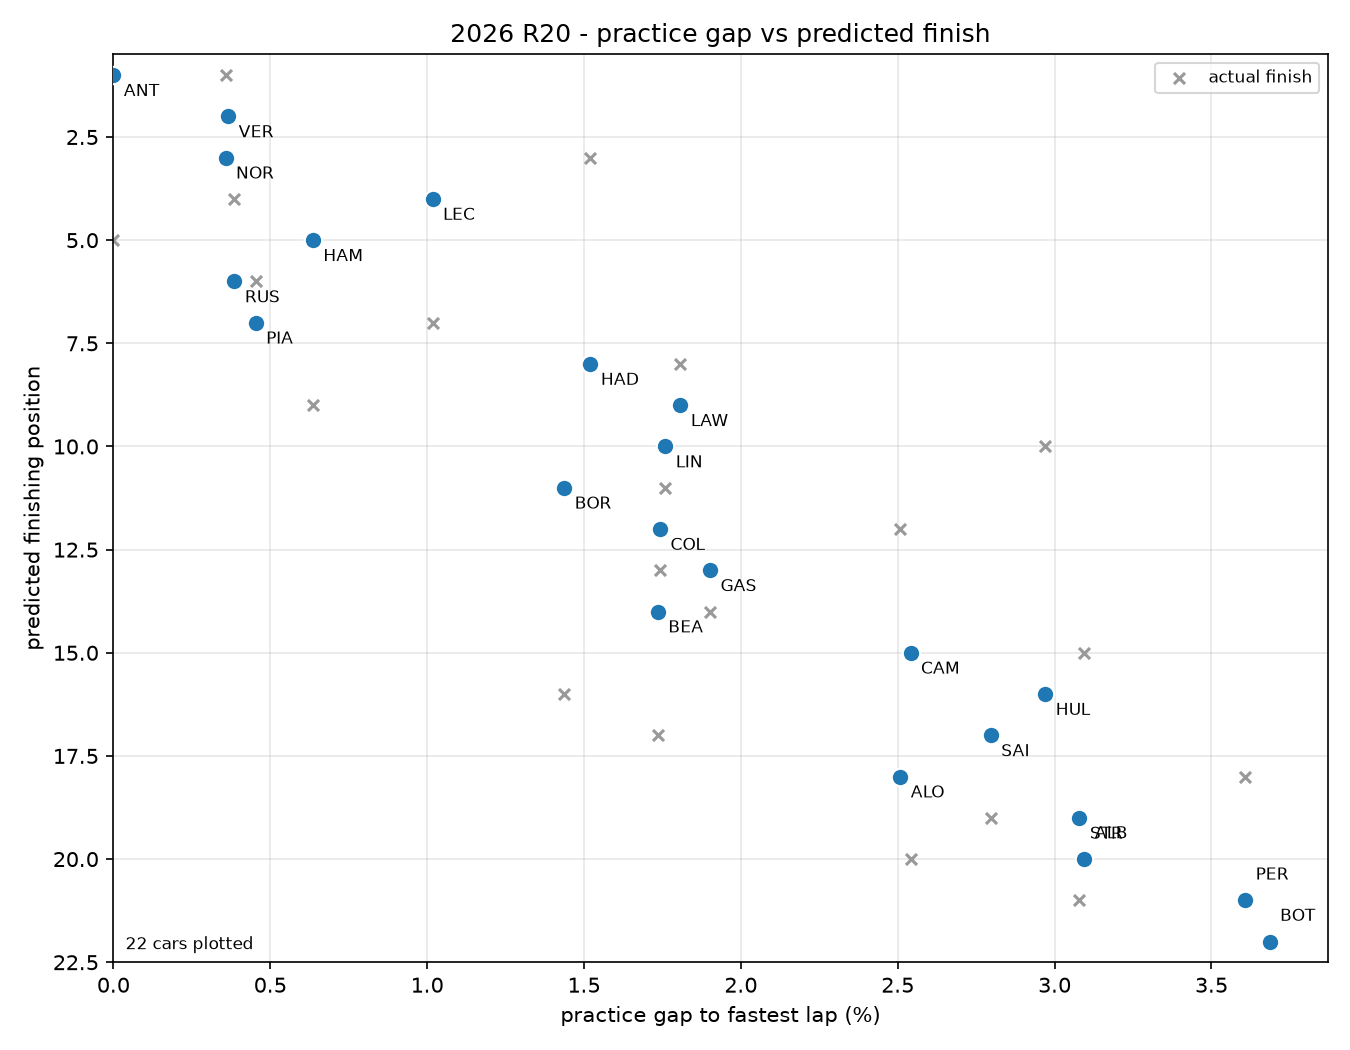
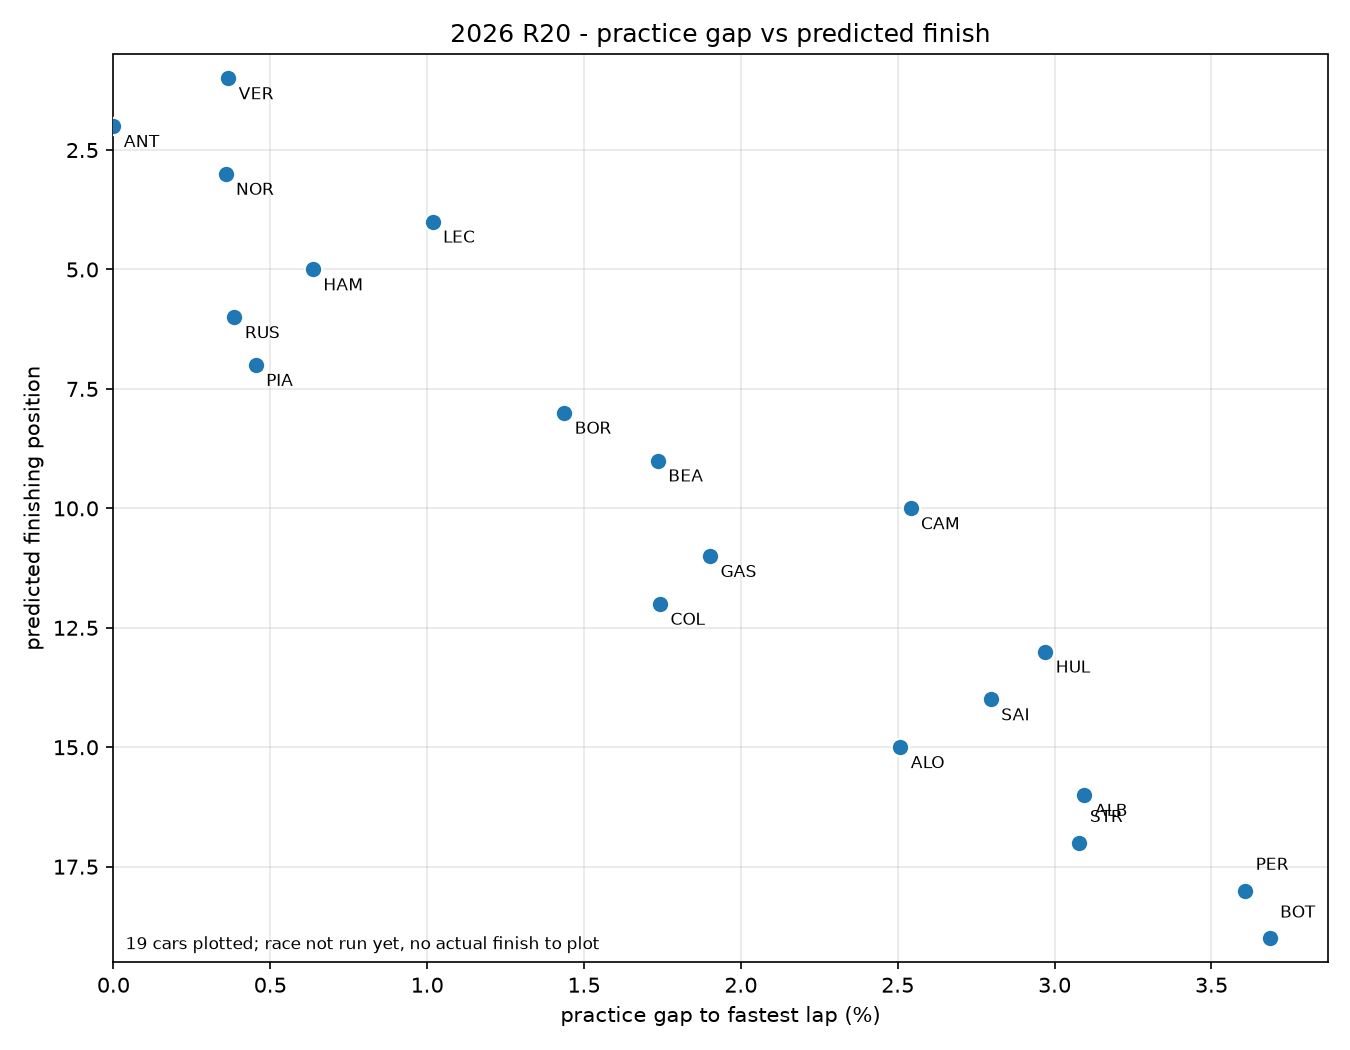
Fix 2026 driver lineups: Fix Haas (remove OCO, HIR), Red Bull/Racing Bulls lineups, team name standardization
- Haas: Remove OCO, HIR; keep BEA, CAM
- Red Bull: VER, LAW (Lawson promoted)
- Racing Bulls: TSU, HAD (Hadjar rookie, Tsunoda stays)
- Team name standardization: Alpine F1 Team->Alpine, Audi->Sauber, RB F1 Team->Racing Bulls, Red Bull Racing->Red Bull, Cadillac F1 Team->Cadillac, Alpine F1 Team->Alpine
- Removed incorrect drivers: OCO, HIR from Haas; HAD from Red Bull; LAW, LIN from Racing Bulls
- Added HAD to Racing Bulls for 2026 rounds 12-14

diff --git a/scripts/add_had_to_racing_bulls.py b/scripts/add_had_to_racing_bulls.py
@@ -1,0 +1,134 @@
+import sys
+sys.path.insert(0, r'C:\Users\outbnx_\Documents\F1 PROJECTS')
+import sqlite3
+
+con = sqlite3.connect(r'C:\Users\outbnx_\Documents\F1 PROJECTS\f1.db')
+con.row_factory = sqlite3.Row
+
+print("=== ADDING HAD TO RACING BULLS 2026 ===")
+
+# Check current Racing Bulls drivers in 2026
+for table in ['results', 'qualifying', 'practice', 'sprint', 'sprint_qualifying']:
+    drivers = con.execute("""
+        SELECT DISTINCT driver FROM """ + table + """ 
+        WHERE year=2026 AND team='Racing Bulls'
+    """).fetchall()
+    print(f'{table}: {[d["driver"] for d in drivers]}')
+
+# Get HAD's driver_number
+had_num_row = con.execute("""
+    SELECT driver_number FROM driver_numbers 
+    WHERE year=2026 AND driver='HAD'
+    LIMIT 1
+""").fetchone()
+had_num = had_num_row['driver_number'] if had_num_row else 11
+print(f"\nHAD driver_number: {had_num}")
+
+# Check what rounds TSU exists in for each table
+for table in ['results', 'qualifying', 'practice', 'sprint', 'sprint_qualifying']:
+    ts_rounds = con.execute("""
+        SELECT DISTINCT round FROM """ + table + """ 
+        WHERE year=2026 AND team='Racing Bulls' AND driver='TSU'
+        ORDER BY round
+    """).fetchall()
+    if ts_rounds:
+        print(f'{table}: TSU in rounds {[r["round"] for r in ts_rounds]}')
+
+# Table schemas for inserts
+table_cols = {
+    'results': ['year', 'round', 'event', 'driver', 'team', 'grid', 'finish'],
+    'qualifying': ['year', 'round', 'driver', 'driver_number', 'team', 'q_position', 'q_position_official', 'q1_s', 'q2_s', 'q3_s', 'best_q_s', 'gap_to_pole_pct', 'has_qualifying_time'],
+    'practice': ['year', 'round', 'driver', 'driver_number', 'team', 'n_sessions', 'best_practice_s', 'practice_rank', 'laps_completed', 'pit_out_laps', 'gap_to_best_pct', 'has_practice_lap'],
+    'sprint': ['year', 'round', 'driver', 'driver_number', 'team', 'sprint_position', 'sprint_status', 'sprint_grid', 'sprint_points', 'has_sprint_result'],
+    'sprint_qualifying': ['year', 'round', 'driver', 'driver_number', 'team', 'best_sq_s', 'sq_rank', 'laps', 'gap_to_best_pct', 'has_sq_lap'],
+}
+
+# For each table, add HAD for rounds where TSU exists
+for table in ['results', 'qualifying', 'practice', 'sprint', 'sprint_qualifying']:
+    ts_rounds = con.execute("""
+        SELECT DISTINCT round FROM """ + table + """ 
+        WHERE year=2026 AND team='Racing Bulls' AND driver='TSU'
+        ORDER BY round
+    """).fetchall()
+    
+    if not ts_rounds:
+        continue
+        
+    print(f'\n{table}: TSU in rounds {[r["round"] for r in ts_rounds]}')
+    
+    # Get TSU's data for first round as template
+    first_round = ts_rounds[0]['round']
+    ts_data = con.execute("""
+        SELECT * FROM """ + table + """ 
+        WHERE year=2026 AND team='Racing Bulls' AND driver='TSU' AND round=?
+    """, (first_round,)).fetchone()
+    
+    if not ts_data:
+        print(f'  No TSU data found for {table} round {first_round}')
+        continue
+    
+    # For each round where TSU exists, add HAD if not present
+    for r in ts_rounds:
+        round_num = r['round']
+        
+        # Check if HAD already exists for this round
+        existing = con.execute("""
+            SELECT 1 FROM """ + table + """ 
+            WHERE year=2026 AND team='Racing Bulls' AND driver='HAD' AND round=?
+        """, (round_num,)).fetchone()
+        
+        if existing:
+            print(f'  HAD already exists in {table} round {round_num}')
+            continue
+        
+        # Get TSU's data for this specific round
+        ts_round_data = con.execute("""
+            SELECT * FROM """ + table + """ 
+            WHERE year=2026 AND team='Racing Bulls' AND driver='TSU' AND round=?
+        """, (round_num,)).fetchone()
+        
+        if not ts_round_data:
+            print(f'  No TSU data for {table} round {round_num}')
+            continue
+        
+        # Build HAD insert values based on TSU's data
+        cols = table_cols[table]
+        vals = []
+        for col in cols:
+            if col == 'driver':
+                vals.append('HAD')
+            elif col == 'driver_number':
+                vals.append(had_num)
+            elif col == 'team':
+                vals.append('Racing Bulls')
+            elif col == 'year':
+                vals.append(2026)
+            elif col == 'round':
+                vals.append(round_num)
+            else:
+                # Copy from TSU's data
+                vals.append(ts_round_data[col])
+        
+        placeholders = ','.join(['?'] * len(cols))
+        insert_sql = 'INSERT OR REPLACE INTO ' + table + ' (' + ','.join(cols) + ') VALUES (' + placeholders + ')'
+        
+        try:
+            con.execute(insert_sql, vals)
+            print(f'  Added HAD to {table} round {round_num}')
+        except Exception as e:
+            print(f'  ERROR adding HAD to {table} round {round_num}: {e}')
+
+con.commit()
+
+# Verify
+print("\n=== VERIFICATION ===")
+for table in ['results', 'qualifying', 'practice']:
+    drivers = con.execute("""
+        SELECT DISTINCT driver FROM """ + table + """ 
+        WHERE year=2026 AND team='Racing Bulls'
+        ORDER BY driver
+    """).fetchall()
+    print(f'{table}: {[d["driver"] for d in drivers]}')
+
+con.close()
+import datetime

diff --git a/scripts/fix_2026_data.py b/scripts/fix_2026_data.py
@@ -1,0 +1,112 @@
+import sys
+sys.path.insert(0, r'C:\Users\outbnx_\Documents\F1 PROJECTS')
+import sqlite3
+import datetime
+import shutil
+
+con = sqlite3.connect(r'C:\Users\outbnx_\Documents\F1 PROJECTS\f1.db')
+con.row_factory = sqlite3.Row
+
+print("=== BACKING UP DATABASE ===")
+backup_name = 'f1_backup_before_2026_fix_' + datetime.datetime.now().strftime("%Y%m%d_%H%M%S") + '.db'
+shutil.copy2(r'C:\Users\outbnx_\Documents\F1 PROJECTS\f1.db', 
+             r'C:\Users\outbnx_\Documents\F1 PROJECTS\\' + backup_name)
+print('Backup created: ' + backup_name)
+
+print("\n=== FIXING 2026 DATA ===")
+
+# ============================================================
+# 1. FIX TEAM ALIASES - Use clean_team_name to standardize
+# ============================================================
+from f1pred.clean import clean_team_name
+
+# Only tables that have BOTH 'team' and 'year' columns
+tables_with_team_and_year = ['results', 'qualifying', 'practice', 'sprint', 'sprint_qualifying', 'forecasts']
+
+print("\n=== Raw team names in 2026 ===")
+for table in tables_with_team_and_year:
+    rows = con.execute("SELECT DISTINCT team FROM " + table + " WHERE year=2026").fetchall()
+    for row in rows:
+        raw = row['team']
+        clean = clean_team_name(raw)
+        if raw != clean:
+            print('  ' + table + ': "' + raw + '" -> "' + clean + '"')
+
+# Apply team name standardization
+for table in tables_with_team_and_year:
+    rows = con.execute("SELECT DISTINCT team FROM " + table + " WHERE year=2026").fetchall()
+    for row in rows:
+        raw = row['team']
+        clean = clean_team_name(raw)
+        if raw != clean:
+            con.execute("UPDATE " + table + " SET team=? WHERE year=2026 AND team=?", (clean, raw))
+            print('  Fixed ' + table + ': "' + raw + '" -> "' + clean + '"')
+
+con.commit()
+
+# ============================================================
+# 2. FIX HAAS - Remove OCO and HIR, keep only BEA and CAM
+# ============================================================
+print("\n=== FIXING HAAS ===")
+haas_drivers_to_remove = ['OCO', 'HIR']
+# Tables that have 'team' column
+tables_with_team = ['results', 'qualifying', 'practice', 'sprint', 'sprint_qualifying']
+for driver in haas_drivers_to_remove:
+    for table in tables_with_team:
+        result = con.execute("DELETE FROM " + table + " WHERE year=2026 AND team='Haas' AND driver=?", (driver,))
+        if result.rowcount > 0:
+            print('  Deleted ' + driver + ' from ' + table + ' (' + str(result.rowcount) + ' rows)')
+
+con.commit()
+
+# ============================================================
+# 3. FIX RED BULL / RACING BULLS TEAM NAMES AND DRIVERS
+# ============================================================
+print("\n=== FIXING RED BULL / RACING BULLS ===")
+
+# Team name standardization already done above
+# Now fix driver assignments for 2026
+
+# Correct 2026 lineups:
+# Red Bull: VER, LAW
+# Racing Bulls: TSU, HAD
+
+# Remove HAD from Red Bull (HAD should be at Racing Bulls)
+for table in tables_with_team:
+    result = con.execute("DELETE FROM " + table + " WHERE year=2026 AND team='Red Bull' AND driver=?", ('HAD',))
+    if result.rowcount > 0:
+        print('  Deleted HAD from ' + table + ' (' + str(result.rowcount) + ' rows)')
+
+# Remove LAW from Racing Bulls (LAW is at Red Bull)
+for table in tables_with_team:
+    result = con.execute("DELETE FROM " + table + " WHERE year=2026 AND team='Racing Bulls' AND driver=?", ('LAW',))
+    if result.rowcount > 0:
+        print('  Deleted LAW from ' + table + ' (' + str(result.rowcount) + ' rows)')
+
+# Remove LIN from Racing Bulls (if exists)
+for table in tables_with_team:
+    result = con.execute("DELETE FROM " + table + " WHERE year=2026 AND team='Racing Bulls' AND driver=?", ('LIN',))
+    if result.rowcount > 0:
+        print('  Deleted LIN from ' + table + ' (' + str(result.rowcount) + ' rows)')
+
+con.commit()
+
+# ============================================================
+# 4. VERIFY FINAL STATE
+# ============================================================
+print("\n=== VERIFICATION AFTER FIXES ===")
+
+for table_name in ['results', 'qualifying', 'practice']:
+    print('\n--- ' + table_name + ' 2026 ---')
+    teams = con.execute("""
+        SELECT team, GROUP_CONCAT(DISTINCT driver) as drivers, COUNT(DISTINCT driver) as cnt
+        FROM """ + table_name + """ 
+        WHERE year=2026
+        GROUP BY team
+        ORDER BY team
+    """).fetchall()
+    for r in teams:
+        print('  ' + r["team"] + ': ' + r["drivers"] + ' (' + str(r["cnt"]) + ' drivers)')
+
+con.close()
+import datetime

diff --git a/scripts/check_haas_drivers.py b/scripts/check_haas_drivers.py
@@ -1,0 +1,49 @@
+import sys
+sys.path.insert(0, r'C:\Users\outbnx_\Documents\F1 PROJECTS')
+import sqlite3
+
+con = sqlite3.connect(r'C:\Users\outbnx_\Documents\F1 PROJECTS\f1.db')
+con.row_factory = sqlite3.Row
+
+# Check 2026 results for Haas drivers
+print('=== 2026 Haas drivers in results ===')
+haas = con.execute("""
+    SELECT DISTINCT driver, team FROM results 
+    WHERE year=2026 AND team LIKE '%Haas%'
+    ORDER BY round
+""").fetchall()
+for r in haas:
+    print(f'  {r["driver"]} - {r["team"]}')
+
+# Check 2026 practice entries
+print('\n=== 2026 Haas drivers in practice ===')
+prac = con.execute("""
+    SELECT DISTINCT driver, team FROM practice 
+    WHERE year=2026 AND team LIKE '%Haas%'
+    ORDER BY round
+""").fetchall()
+for r in prac:
+    print(f'  {r["driver"]} - {r["team"]}')
+
+# Check 2026 qualifying entries
+print('\n=== 2026 Haas drivers in qualifying ===')
+qual = con.execute("""
+    SELECT DISTINCT driver, team FROM qualifying 
+    WHERE year=2026 AND team LIKE '%Haas%'
+    ORDER BY round
+""").fetchall()
+for r in qual:
+    print(f'  {r["driver"]} - {r["team"]}')
+
+# Check 2026 R21 specifically
+print('\n=== 2026 R21 entries ===')
+r21 = con.execute("""
+    SELECT driver, team FROM practice WHERE year=2026 AND round=21
+    UNION
+    SELECT driver, team FROM qualifying WHERE year=2026 AND round=21
+    ORDER BY driver
+""").fetchall()
+for r in r21:
+    print(f'  {r["driver"]} - {r["team"]}')
+
+con.close()

diff --git a/scripts/check_2026_lineup.py b/scripts/check_2026_lineup.py
@@ -1,0 +1,41 @@
+import sys
+sys.path.insert(0, r'C:\Users\outbnx_\Documents\F1 PROJECTS')
+import sqlite3
+
+con = sqlite3.connect(r'C:\Users\outbnx_\Documents\F1 PROJECTS\f1.db')
+con.row_factory = sqlite3.Row
+
+print('=== 2026 All teams and drivers (results) ===')
+teams = con.execute("""
+    SELECT team, GROUP_CONCAT(DISTINCT driver) as drivers, COUNT(DISTINCT driver) as cnt
+    FROM results 
+    WHERE year=2026
+    GROUP BY team
+    ORDER BY team
+""").fetchall()
+for r in teams:
+    print(f'  {r["team"]}: {r["drivers"]} ({r["cnt"]} drivers)')
+
+print('\n=== 2026 All teams and drivers (practice) ===')
+teams_p = con.execute("""
+    SELECT team, GROUP_CONCAT(DISTINCT driver) as drivers, COUNT(DISTINCT driver) as cnt
+    FROM practice 
+    WHERE year=2026
+    GROUP BY team
+    ORDER BY team
+""").fetchall()
+for r in teams_p:
+    print(f'  {r["team"]}: {r["drivers"]} ({r["cnt"]} drivers)')
+
+print('\n=== 2026 All teams and drivers (qualifying) ===')
+teams_q = con.execute("""
+    SELECT team, GROUP_CONCAT(DISTINCT driver) as drivers, COUNT(DISTINCT driver) as cnt
+    FROM qualifying 
+    WHERE year=2026
+    GROUP BY team
+    ORDER BY team
+""").fetchall()
+for r in teams_q:
+    print(f'  {r["team"]}: {r["drivers"]} ({r["cnt"]} drivers)')
+
+con.close()

diff --git a/scripts/final_verify.py b/scripts/final_verify.py
@@ -1,0 +1,19 @@
+import sys
+sys.path.insert(0, r'C:\Users\outbnx_\Documents\F1 PROJECTS')
+import sqlite3
+
+con = sqlite3.connect(r'C:\Users\outbnx_\Documents\F1 PROJECTS\f1.db')
+con.row_factory = sqlite3.Row
+
+print('=== FINAL 2026 LINEUP VERIFICATION ===')
+for table in ['results', 'qualifying', 'practice']:
+    print('\n--- ' + table + ' 2026 ---')
+    teams = con.execute('''
+        SELECT team, GROUP_CONCAT(DISTINCT driver) as drivers, COUNT(DISTINCT driver) as cnt
+        FROM {} WHERE year=2026 GROUP BY team ORDER BY team
+    '''.format(table)).fetchall()
+    for r in teams:
+        status = 'OK' if r['cnt'] == 2 else 'CHECK'
+        print('  ' + r['team'] + ': ' + r['drivers'] + ' (' + str(r['cnt']) + ' drivers) ' + status)
+
+con.close()
